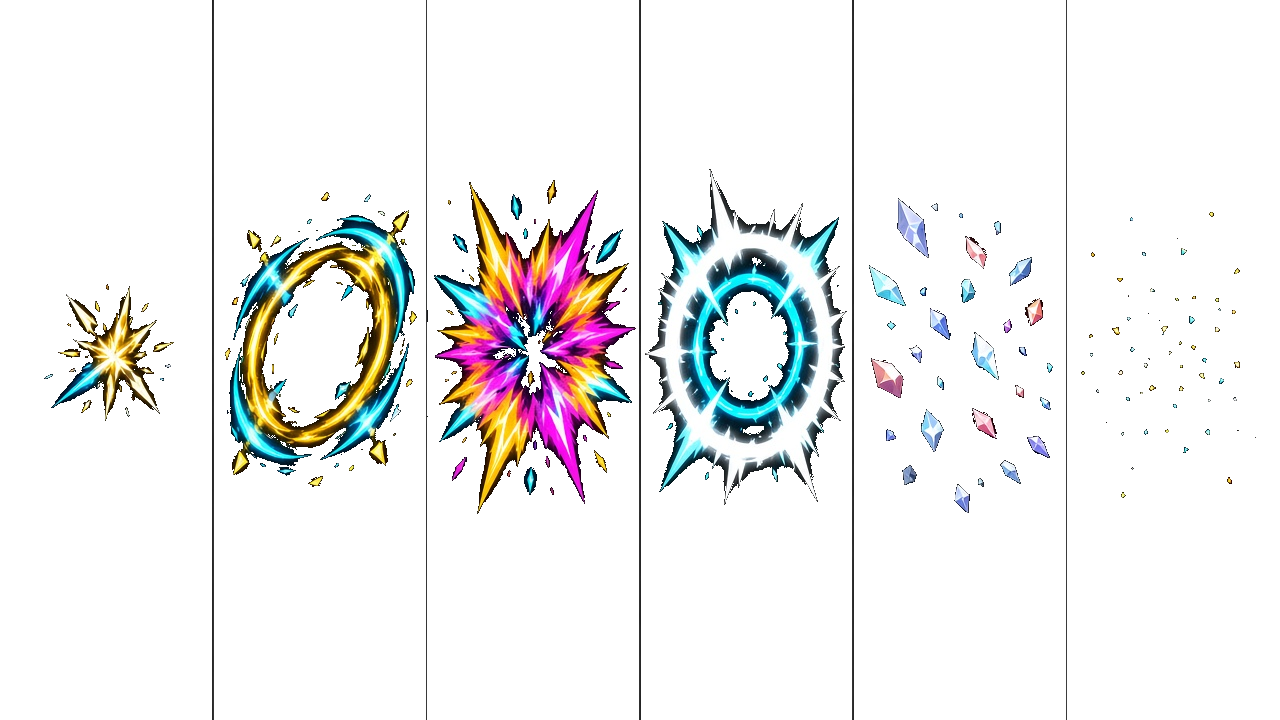
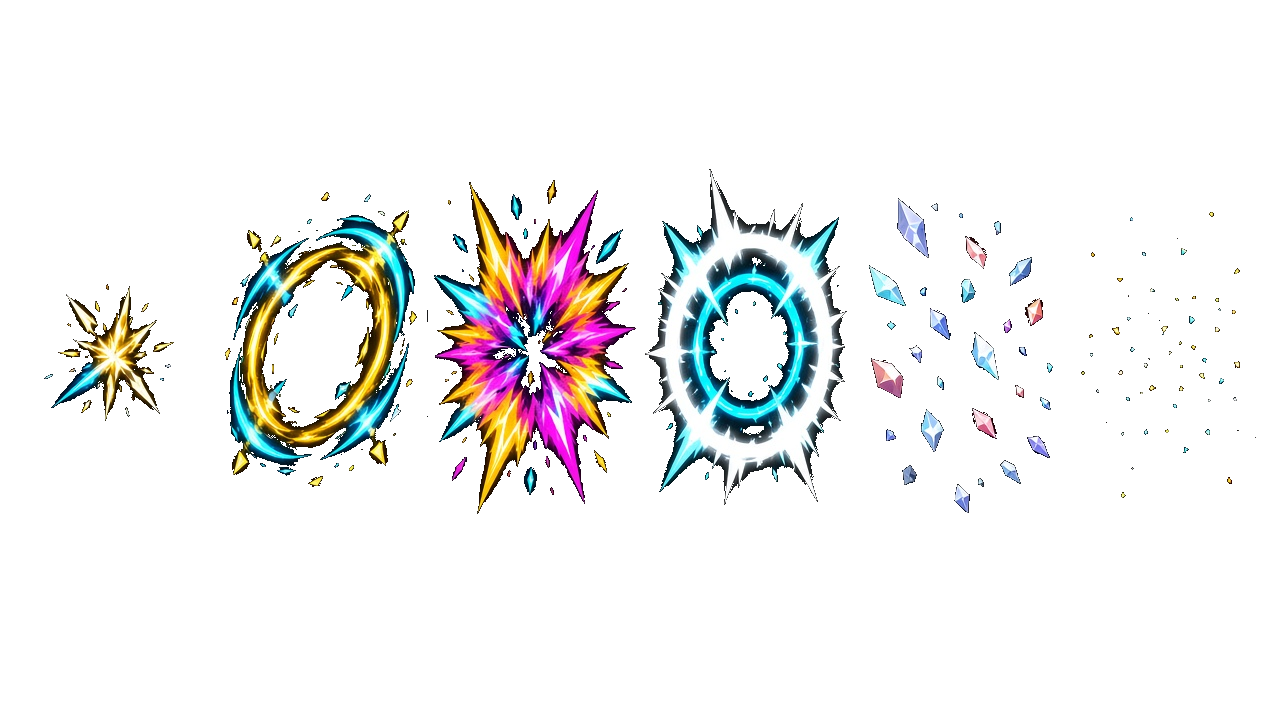
Wire Detonate burst punch v3b (Soft Lock feel)
Presentation strip only. The transparent v3b sheet replaces the v3 burst, and playback crops stay off the cleared divider columns. Kit numbers and Detonate legality stay as they are.

diff --git a/docs/ship_log.md b/docs/ship_log.md
@@ -2,6 +2,12 @@
 
 Durable record of feel passes on the mobile track. Kit numbers in here are reminders of what stayed Locked. They are not a second source of truth. The legal sentences live in `docs/STASIUM_XII_GDD_handoff.md`.
 
+## 2026-09-27 — Detonate burst punch v3b
+
+Presentation only. No APK. Kit numbers, Detonate legality, and Locked timings are unchanged. Soft Lock pending Rosie rematch.
+
+`detonate_burst.png` is the v3b transparent strip: 1280×720, six beats (ignition, burst, shock, shards, fade, settle). The full-height divider columns from v3 (x=212–213, 426, 639–640, 852–853, 1066) are clear. Playback crops stay off those columns, so a ghost bar is not a frame. The burst still opens on the cast resolve and still uses the spell-overlay life (0.24s, inside 0.2–0.4s). The stamp plays this one strip.
+
 ## 2026-09-27 — Ambush slash strip v5
 
 Presentation only. No APK. Kit numbers, Ambush legality, Invisible Soft Lock, the 22, and AP costs are unchanged. Soft Lock pending Rosie rematch.
